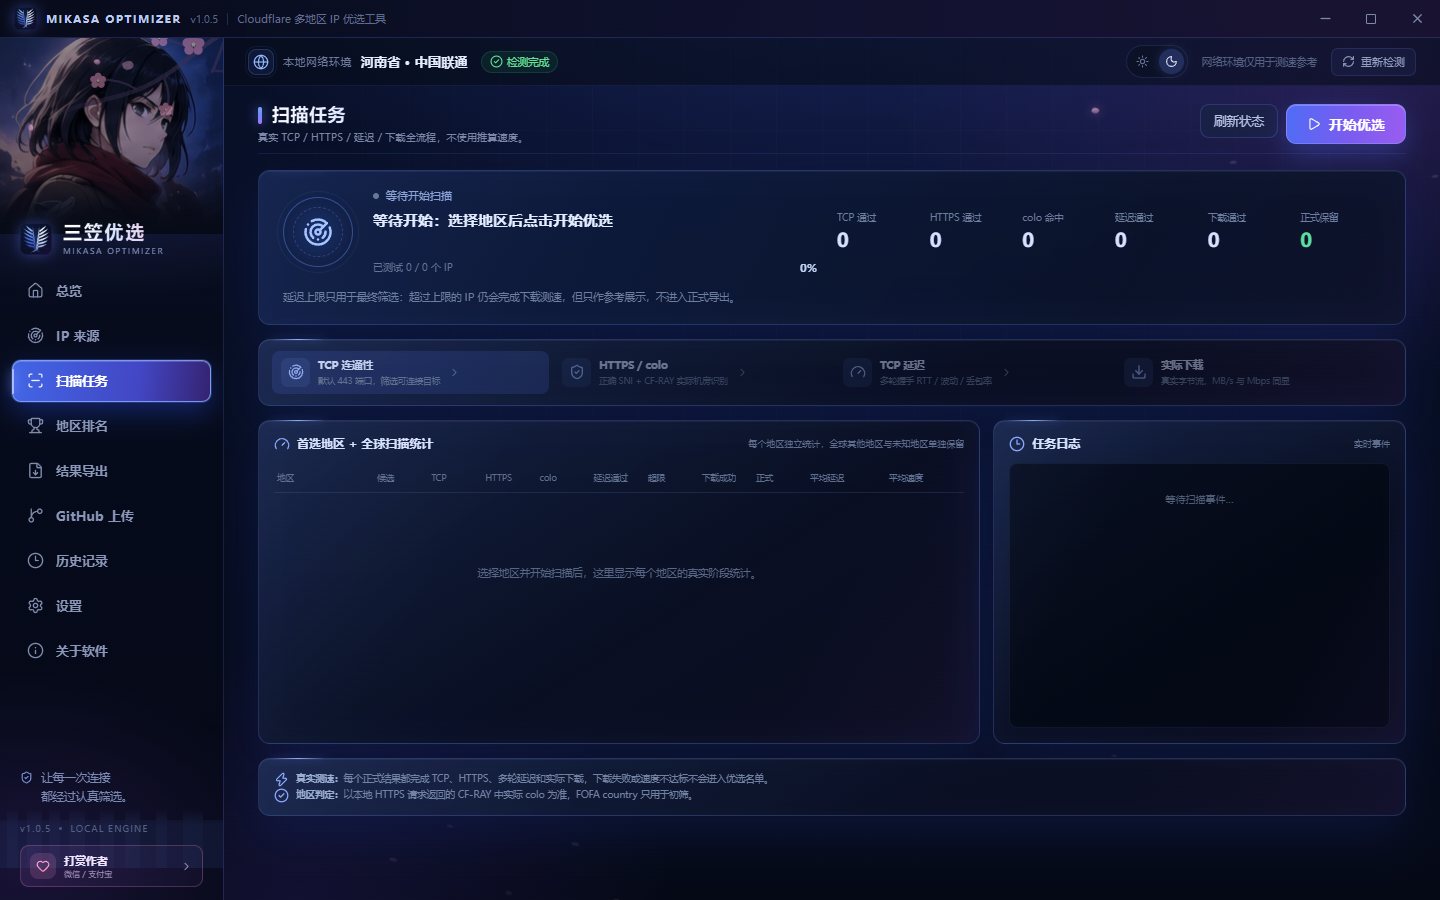
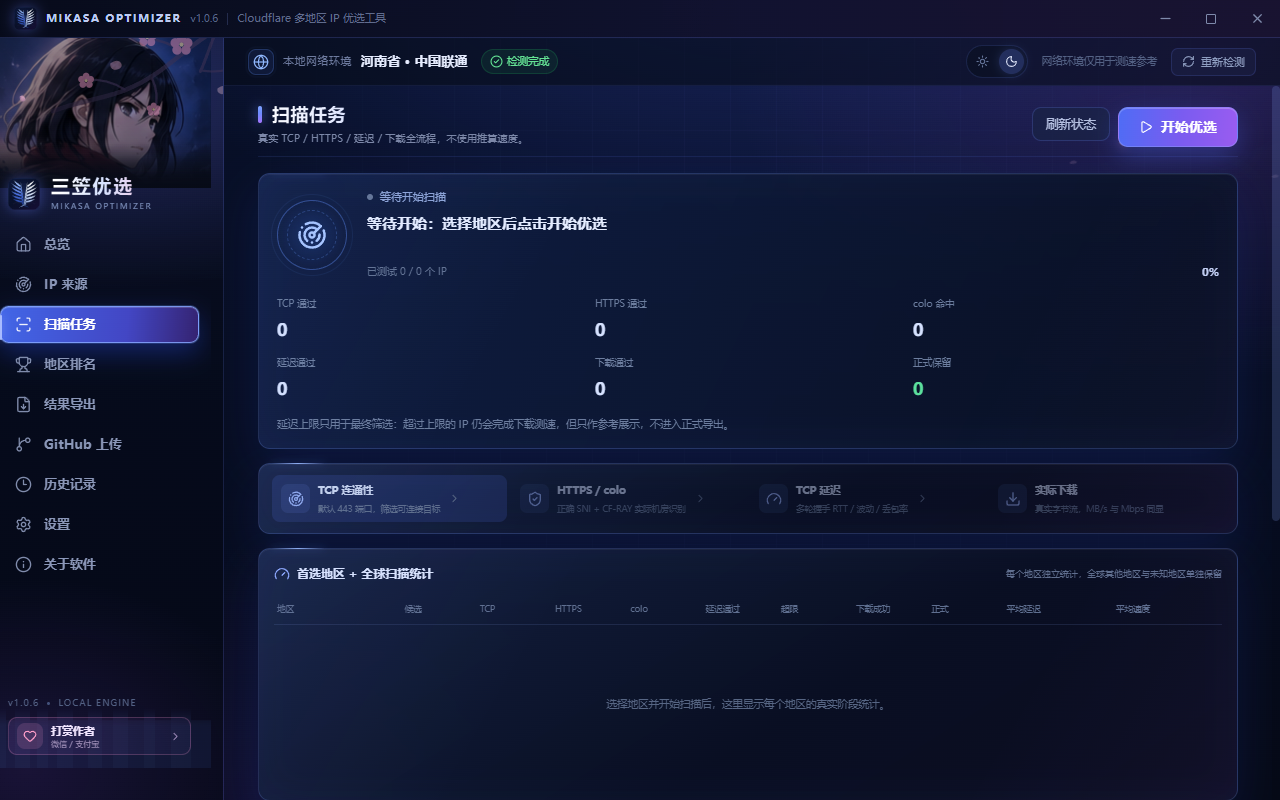
release: v1.0.6 layout and window fixes

diff --git a/src/views/OverviewView.vue b/src/views/OverviewView.vue
@@ -360,6 +360,7 @@ const coveredCount = computed(() => coverageRows.value.filter((row) => row.final
           class="region-card"
           :class="{ selected: state.selectedRegions.includes(region.key) }"
           :disabled="scanActive"
+          :title="`${region.name} · ${region.colos.join(' · ')}`"
           @click="toggleRegion(region.key)"
         >
           <RegionFlag :code="region.key" :width="24" />
@@ -552,11 +553,18 @@ const coveredCount = computed(() => coverageRows.value.filter((row) => row.final
             <span>地区覆盖</span>
             <em>{{ coveredCount }} / {{ displayRegions.length }}</em>
           </div>
-          <div v-for="row in coverageRows" :key="row.key" class="coverage-row">
-            <RegionFlag :code="row.key" :width="16" />
-            <span class="coverage-name">{{ row.name }}</span>
-            <span class="coverage-colo">{{ row.colo || '—' }}</span>
-            <span class="coverage-value" :class="{ zero: row.final === 0 }">{{ row.final }} 个</span>
+          <div class="coverage-chips">
+            <div
+              v-for="row in coverageRows"
+              :key="row.key"
+              class="coverage-chip"
+              :class="{ zero: row.final === 0 }"
+              :title="`${row.name} · ${row.colo || '未知 colo'} · ${row.final} 个`"
+            >
+              <RegionFlag :code="row.key" :width="13" />
+              <span class="coverage-name">{{ row.name }}</span>
+              <em>{{ row.final }}</em>
+            </div>
           </div>
         </div>
         <div class="summary-actions">
@@ -860,6 +868,7 @@ const coveredCount = computed(() => coverageRows.value.filter((row) => row.final
   color: #e3eaff;
   font-size: 11px;
   font-weight: 700;
+  white-space: nowrap;
 }
 
 .region-copy em {
@@ -894,6 +903,7 @@ const coveredCount = computed(() => coverageRows.value.filter((row) => row.final
 .all-region .region-globe {
   display: grid;
   place-items: center;
+  flex-shrink: 0;
   width: 27px;
   height: 27px;
   border: 1px solid rgba(118, 148, 255, 0.25);
@@ -1191,39 +1201,44 @@ const coveredCount = computed(() => coverageRows.value.filter((row) => row.final
   color: #9fb2e0;
 }
 
-.coverage-row {
+.coverage-chips {
+  display: grid;
+  grid-template-columns: repeat(4, minmax(0, 1fr));
+  gap: 3px 5px;
+  margin-top: 4px;
+}
+
+.coverage-chip {
   display: flex;
   align-items: center;
-  gap: 7px;
+  gap: 4px;
+  min-width: 0;
   height: 20px;
-  font-size: 10px;
+  padding: 0 5px;
+  border: 1px solid rgba(108, 133, 255, 0.1);
+  border-radius: 5px;
+  background: rgba(98, 124, 215, 0.06);
   color: #a8b6d6;
+  font-size: 9px;
 }
 
 .coverage-name {
   flex: 1;
+  min-width: 0;
   white-space: nowrap;
   overflow: hidden;
   text-overflow: ellipsis;
 }
 
-.coverage-colo {
-  color: #6d7ea6;
-  font-size: 9px;
-  letter-spacing: 0.04em;
-}
-
-.coverage-value {
-  min-width: 38px;
-  text-align: right;
+.coverage-chip em {
+  font-style: normal;
   color: #57e39b;
   font-weight: 600;
+  font-variant-numeric: tabular-nums;
 }
 
-.coverage-value.zero {
-  color: #5d6a8c;
-  font-weight: 400;
-}
+.coverage-chip.zero { color: #5d6a8c; }
+.coverage-chip.zero em { color: #5d6a8c; font-weight: 400; }
 
 .summary-card {
   padding: 12px 12px 9px;
@@ -1411,12 +1426,54 @@ const coveredCount = computed(() => coverageRows.value.filter((row) => row.final
 @media (max-width: 1400px) {
   .hero-quote { display: none; }
   .hero-earth-img { right: 0; width: 460px; opacity: 0.42; }
-  .region-grid { grid-template-columns: repeat(4, minmax(0, 1fr)); }
-  .charts-grid { grid-template-columns: repeat(2, minmax(0, 1fr)); }
-  .charts-grid > .chart-card:last-child { grid-column: span 2; }
+  .region-grid { grid-template-columns: repeat(8, minmax(0, 1fr)); }
+  .charts-grid { grid-template-columns: repeat(3, minmax(0, 1fr)); }
+  .charts-grid > .chart-card:last-child { grid-column: auto; }
 }
 
-@media (max-width: 1280px) {
+@media (max-width: 1400px), (max-height: 860px) {
+  .overview-page { gap: 6px; padding: 8px 14px 5px; }
+  .hero { min-height: 88px; padding: 8px 22px; }
+  .hero h1 { font-size: 25px; }
+  .hero p { margin-top: 2px; }
+  .hero-badges { margin-top: 4px; }
+  .hero-icon { width: 48px; height: 48px; }
+  .hero-sakura { width: 270px; height: 108px; top: -26px; }
+  .block-head { margin-bottom: 6px; }
+  .section-title { font-size: 13.5px; }
+  .block-meta { font-size: 9.5px; }
+  .region-card { height: 44px; padding: 0 7px; gap: 6px; }
+  .region-copy strong { font-size: 10px; }
+  .region-copy em { display: none; }
+  .region-check { width: 16px; height: 16px; }
+  .all-region .region-globe { width: 23px; height: 23px; }
+  .param-bar { gap: 8px; padding: 4px 10px; }
+  .param-title { gap: 5px; padding-right: 9px; font-size: 11px; }
+  .param-items { flex-wrap: nowrap; gap: 8px; }
+  .param-item { gap: 4px; font-size: 9.5px; }
+  .param-item select { height: 27px; min-width: 62px; padding: 0 5px; font-size: 10px; }
+  .source-inline { display: none; }
+  .smart-pill { height: 25px; padding: 0 6px; font-size: 9px; }
+  .param-note { font-size: 9px; }
+  .start-btn { height: 34px; padding: 0 18px; font-size: 12px; }
+  .stats-grid { gap: 6px; }
+  .stat-card { padding: 7px 9px 5px; }
+  .stat-icon { width: 26px; height: 26px; }
+  .stat-label { font-size: 10.5px; }
+  .stat-value { font-size: 20px; }
+  .chart-card { padding: 8px 9px 2px; }
+  .logs-card { min-height: 148px; padding: 8px 10px 5px; }
+  .log-row { height: 19px; }
+  .summary-card { min-height: 148px; padding: 9px 10px 7px; }
+  .summary-icon { width: 32px; height: 32px; }
+  .summary-title { font-size: 13px; }
+  .summary-progress { margin-top: 7px; }
+  .coverage-list { margin-top: 4px; }
+  .summary-actions { padding-top: 8px; }
+  .overview-footer { font-size: 9px; }
+}
+
+@media (max-width: 1199px) {
   .overview-page { padding-left: 14px; padding-right: 14px; }
   .hero { padding: 12px 20px; }
   .hero-en { display: none; }

diff --git a/src/style.css b/src/style.css
@@ -539,6 +539,12 @@ html[data-theme="light"] .region-card:hover { background: #ffffff; border-color:
 html[data-theme="light"] .region-card.selected { background: linear-gradient(120deg, #e8efff, #f2ecff); border-color: rgba(79, 111, 232, 0.55); box-shadow: 0 8px 22px rgba(79, 111, 232, 0.16); }
 html[data-theme="light"] .region-copy strong { color: #17233d; }
 html[data-theme="light"] .region-copy em { color: #55657f; font-size: 8.5px; }
+html[data-theme="light"] .coverage-head { color: #5c6a86; }
+html[data-theme="light"] .coverage-head em { color: #334fc4; }
+html[data-theme="light"] .coverage-chip { background: #f7f9ff; border-color: rgba(58, 83, 140, 0.13); color: #53637f; }
+html[data-theme="light"] .coverage-chip em { color: #168a55; }
+html[data-theme="light"] .coverage-chip.zero { color: #7c8aa3; }
+html[data-theme="light"] .coverage-chip.zero em { color: #7c8aa3; }
 html[data-theme="light"] .smart-pill { color: #147a4f; border-color: rgba(20, 122, 79, 0.22); background: rgba(43, 166, 104, 0.08); }
 html[data-theme="light"] .source-inline { color: #5c6b85; }
 html[data-theme="light"] .region-check { border-color: rgba(58, 83, 140, 0.25); }

diff --git a/src/views/RankingsView.vue b/src/views/RankingsView.vue
@@ -344,7 +344,7 @@ onMounted(load)
 .rank-caption { display: flex; flex-wrap: wrap; align-items: center; justify-content: space-between; gap: 4px 12px; margin: 14px 1px 7px; color: #9eafd1; font-size: 10.5px; }
 .caption-note { color: #5e6d8d; font-size: 9px; text-align: right; }
 .table-wrap { overflow-x: auto; border-top: 1px solid rgba(108, 133, 255, 0.1); }
-.rank-row { display: grid; grid-template-columns: 36px minmax(135px, 0.55fr) 45px 88px 62px 72px 78px 78px 52px minmax(110px, 1.6fr) 78px 84px; align-items: center; min-width: 970px; min-height: 38px; border-bottom: 1px solid rgba(109, 134, 198, 0.07); color: #9aabd0; font-size: 10px; }
+.rank-row { display: grid; grid-template-columns: 36px minmax(118px, 0.55fr) 38px 82px 52px 62px 66px 66px 46px minmax(85px, 1.6fr) 72px 76px; align-items: center; min-width: 800px; min-height: 38px; border-bottom: 1px solid rgba(109, 134, 198, 0.07); color: #9aabd0; font-size: 10px; }
 .rank-row.table-head { min-height: 30px; color: #5f7091; font-size: 8.5px; }
 .rank-row > span { padding: 0 5px; min-width: 0; white-space: nowrap; }
 .rank-index { color: #536384; font-family: var(--mono); }

diff --git a/src/store.ts b/src/store.ts
@@ -84,7 +84,7 @@ export const state = reactive({
   sourceCounts: {} as Record<string, number>,
   sourceStats: [] as SourceOverview[],
   dataDir: '',
-  version: '1.0.5',
+  version: '1.0.6',
   network: null as NetworkInfo | null,
   networkLoading: false,
   activeView: 'overview' as ViewKey,
